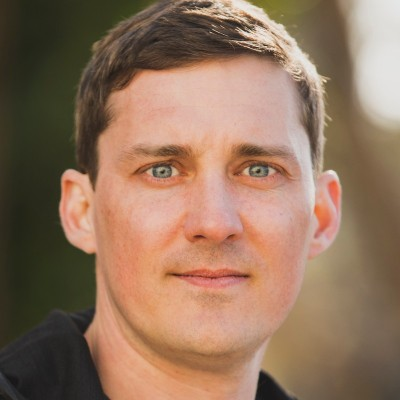
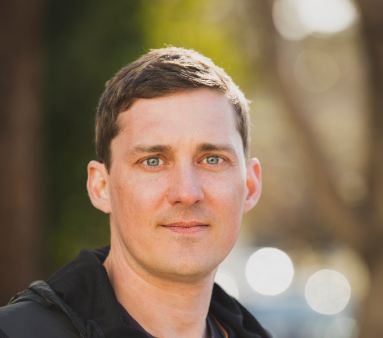
hero page

diff --git a/src/pages/about.js b/src/pages/about.js
@@ -121,7 +121,9 @@ const About = ({ data }) => {
                   Built for Engineers &amp; Data Scientists
                 </h2>
                 <p className="leading-relaxed text-sm sm:text-lg  text-grayColor-custom lg:pr-16">
-                  We have been data engineers and data scientists in our past jobs, understand their challenges and pain points, and are building the best product for them.
+                  We have been data engineers and data scientists in our past
+                  jobs, understand their challenges and pain points, and are
+                  building the best product for them.
                 </p>
               </div>
             </div>
@@ -181,9 +183,7 @@ const About = ({ data }) => {
                   <h3 className="title-font text-2xl font-medium mb-3">
                     Eric Dodds
                   </h3>
-                  <p className="leading-relaxed mb-3 text-xl">
-                    Growth
-                  </p>
+                  <p className="leading-relaxed mb-3 text-xl">Growth</p>
                 </div>
               </div>
             </div>
@@ -208,7 +208,7 @@ const About = ({ data }) => {
               <div className="h-full border border-grayColor-priceCardBorder rounded-3xl overflow-hidden shadow-md">
                 <StaticImage
                   className="h-64 sm:h-72 w-full object-cover object-center"
-                  src="../images/BrettCropped.jpg"
+                  src="../images/Brett.png"
                 />
                 <div className="py-4 text-center">
                   <h3 className="title-font text-2xl font-medium text-gray-900 mb-3">
@@ -250,9 +250,7 @@ const About = ({ data }) => {
                   <h3 className="title-font text-2xl font-medium mb-3">
                     Sumanth Puram
                   </h3>
-                  <p className="leading-relaxed mb-3 text-xl">
-                    Engineering
-                  </p>
+                  <p className="leading-relaxed mb-3 text-xl">Engineering</p>
                 </div>
               </div>
             </div>
@@ -266,9 +264,7 @@ const About = ({ data }) => {
                   <h3 className="title-font text-2xl font-medium text-gray-900 mb-3">
                     Kostas Pardalis
                   </h3>
-                  <p className="leading-relaxed mb-3 text-xl">
-                    Product
-                  </p>
+                  <p className="leading-relaxed mb-3 text-xl">Product</p>
                 </div>
               </div>
             </div>
@@ -295,7 +291,7 @@ const About = ({ data }) => {
                 <p class="text-lg">ex-CEO, Heroku</p>
               </div>
             </div>
-            <div class="w-full md:w-1/3 mb-6 p-4">
+            {/* <div class="w-full md:w-1/3 mb-6 p-4">
               <div class="h-full text-center">
                 <StaticImage
                   className="w-40 h-40 object-cover object-center rounded-full inline-block"
@@ -305,6 +301,18 @@ const About = ({ data }) => {
                   Florian Leibert
                 </h2>
                 <p class="text-lg">ex-CEO, Mesosphere</p>
+              </div>
+            </div> */}
+            <div class="w-full md:w-1/3 mb-6 p-4">
+              <div class="h-full text-center">
+                <StaticImage
+                  className="w-40 h-40 object-cover object-center rounded-full inline-block"
+                  src="../images/bucky-moore.png"
+                />
+                <h2 class="font-medium tracking-wider text-lg pt-10 pb-5">
+                  Bucky Moore
+                </h2>
+                <p class="text-lg">Partner, Kleiner Perkins</p>
               </div>
             </div>
             <div class="w-full md:w-1/3 mb-6 p-4">
@@ -325,7 +333,7 @@ const About = ({ data }) => {
             </div>
           </div>
           <div className="flex justify-center flex-col sm:flex-row -m-4 mt-6 md:mt-32">
-            <div class="w-full md:w-1/2 mb-6">
+            <div class="w-full md:w-1/3 mb-6">
               <div class="h-full text-center">
                 <StaticImage
                   className="w-32 h-32 mb-8 object-cover object-center inline-block"
@@ -333,14 +341,30 @@ const About = ({ data }) => {
                 />
               </div>
             </div>
-            <div class="w-full md:w-1/2 mb-6">
+            <div class="w-full md:w-1/3 mb-6">
+              <div class="h-full text-center">
+                <StaticImage
+                  className="w-32 h-32 mb-8 object-cover object-center inline-block"
+                  src="../images/investor-2.png"
+                />
+              </div>
+            </div>
+            <div class="w-full md:w-1/3 mb-6">
+              <div class="h-full text-center">
+                <StaticImage
+                  className="w-32 h-32 mb-8 object-cover object-center inline-block"
+                  src="../images/investor-3.png"
+                />
+              </div>
+            </div>
+            {/* <div class="w-full md:w-1/2 mb-6">
               <div class="h-full text-center">
                 <StaticImage
                   className="w-32 h-32 mb-8 object-cover object-center inline-block"
                   src="../images/capital.png"
                 />
               </div>
-            </div>
+            </div> */}
           </div>
         </div>
       </section>

diff --git a/src/components/hero.js b/src/components/hero.js
@@ -27,10 +27,10 @@ function Hero(props) {
 
   return (
     <section class="max-w-6xl px-4 md:px-3 sm:my-20 md:mt-10 md:mb-40 mx-auto relative gradiant-layer banner-section">
-      <Helmet>
+      {/* <Helmet>
         <script src={withPrefix("script.js")} type="text/javascript" />
         <script src={withPrefix("script2.js")} type="text/javascript" />
-      </Helmet>
+      </Helmet> */}
       <div class="flex flex-col items-center md:gap-12 xl:gap-24 justify-center mx-auto lg:flex-row lg:p-0">
         <div class="relative z-20 flex flex-col w-full pb-1 mr-30 mb-8 sm:mb-16 text-2xl lg:w-1/2 sm:px-0 sm:items-center lg:items-start lg:mb-0 hero-content">
           <h2 className="text-primary mb-8 md:my-4 md:text-6xl text-5xl font-bold leading-tight">
@@ -93,6 +93,10 @@ function Hero(props) {
             </div>
           </div>
         </div>
+        <Helmet>
+          <script src={withPrefix("script.js")} type="text/javascript" />
+          <script src={withPrefix("script2.js")} type="text/javascript" />
+        </Helmet>
       </div>
     </section>
   )

diff --git a/src/components/layout.js b/src/components/layout.js
@@ -14,6 +14,8 @@ import { FontAwesomeIcon } from "@fortawesome/react-fontawesome"
 import "../lib/font-awesome"
 
 import { useStaticQuery, graphql } from "gatsby"
+import { Helmet } from "react-helmet"
+import { withPrefix } from "gatsby"
 
 import MainNavigation from "../components/main-navigation"
 import FooterNav from "../components/footer-nav"
@@ -94,6 +96,10 @@ const Layout = ({ location, showExplicitGradient, children }) => {
       id="main-container"
       className={`gradient-${diableGradient ? "disable" : "enable"}`}
     >
+      {/* <Helmet>
+        <script src={withPrefix("script.js")} type="text/javascript" />
+        <script src={withPrefix("script2.js")} type="text/javascript" />
+      </Helmet> */}
       <CookiesConsent />
       <MainNavigation />
       <main>{children}</main>
